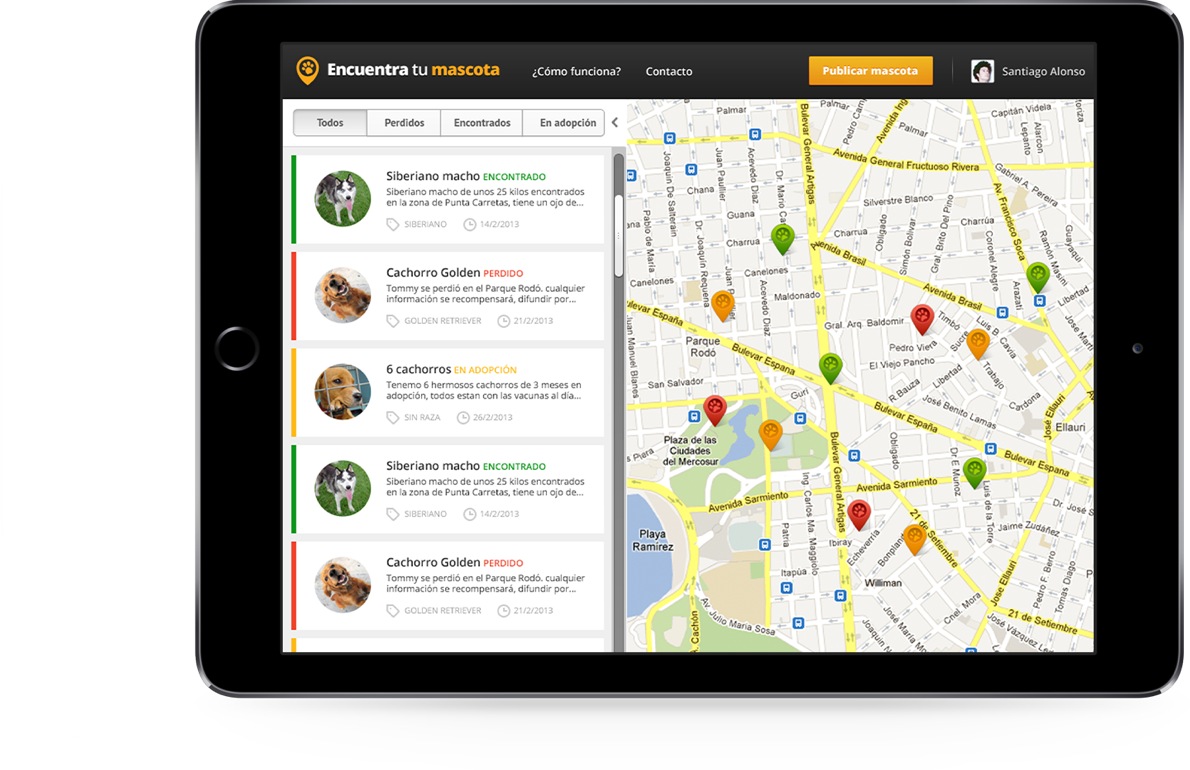
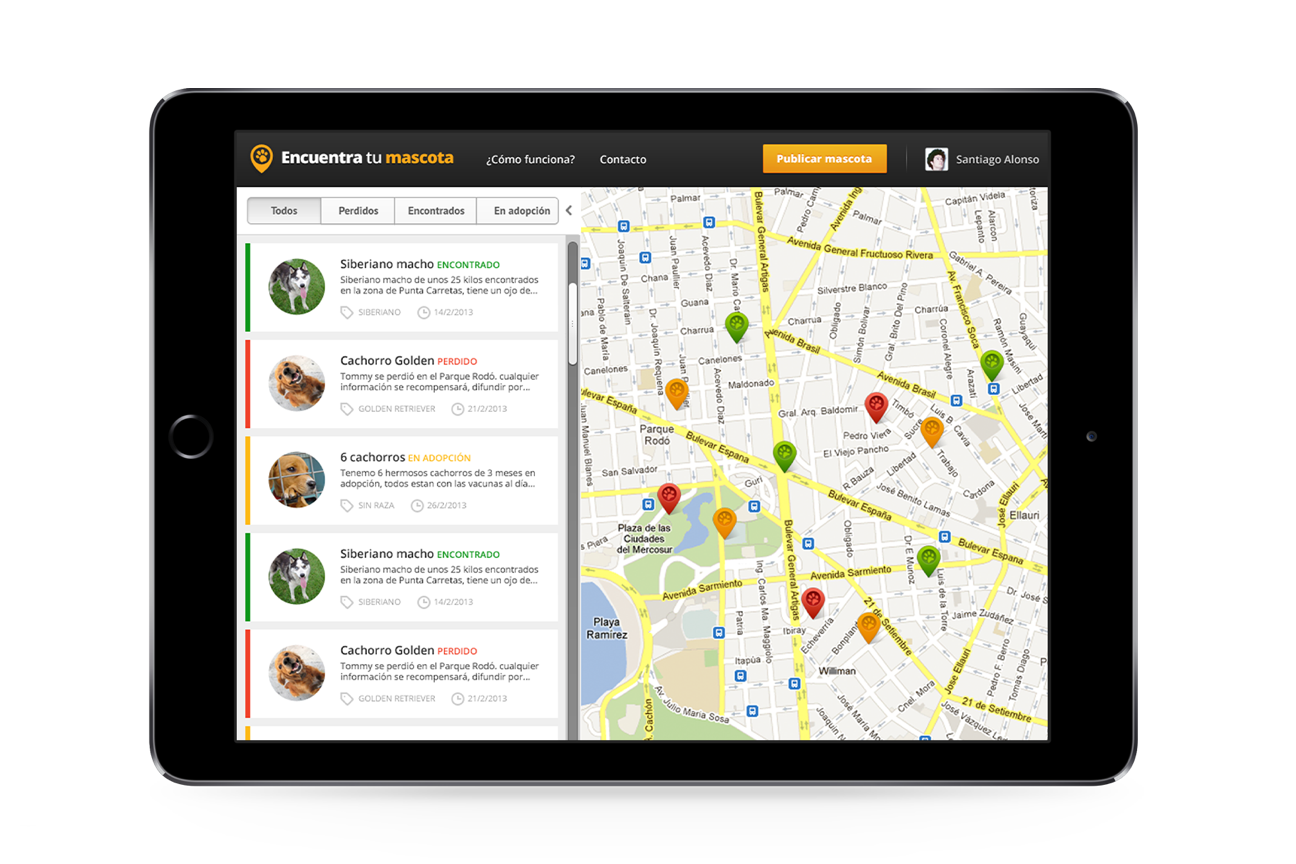
Update as per new white design

diff --git a/src/components/pages/Home.jsx b/src/components/pages/Home.jsx
@@ -45,7 +45,7 @@ class Home extends Component {
           community.
           <BannerNav>
             <Button to="http://news.fandf.io" external={true}>
-              Visit site
+              Go to site
             </Button>
           </BannerNav>
         </Banner>
@@ -58,21 +58,20 @@ class Home extends Component {
           find a home.
           <BannerNav>
             <Button to="http://petfinder.fandf.io" external={true}>
-              Visit site
+              Go to site
             </Button>
           </BannerNav>
         </Banner>
         <Header><HeaderTitle>The way we work</HeaderTitle></Header>
         <Paragraph>
-          Our team is proficient in an array of services that can help elevate
-          and empower your company or organization. We work with you to build
-          comprehensive, identities and experiences.
+          We believe in collaboration and we believe in partners. Our
+          transparent process and open communication are the basis for the way
+          we think about and build digital products.
         </Paragraph>
         <Header><HeaderTitle>What we do</HeaderTitle></Header>
         <Paragraph>
-          Branding, Information Architecture, Interface Design, User
-          Experience Design, Visual Design, Responsive Design, Development
-          Consulting, Front-end Development, iOS Development.
+          Branding, Information Architecture, Interface Design, User Experience
+          Design, Visual Design, Responsive Design, Web and Mobile Development.
         </Paragraph>
       </Root>
     );

diff --git a/src/components/base/Banner.less b/src/components/base/Banner.less
@@ -1,23 +1,78 @@
+@import "variables.less";
+@import "shared.less";
+
 .banner {
   background: rgb(255, 255, 255);
   box-shadow: 0 6px 25px 0 rgba(0, 0, 0, 0.1);
   font-size: 22px;
+  font-weight: 300;
+  height: 320px;
+  letter-spacing: 0.05em;
+  line-height: 1.55em;
   margin-bottom: 72px;
-  padding: 44px 50% 44px 44px;
+  padding: 44px 60% 44px 44px;
   position: relative;
 }
 
-.banner-img {
-  bottom: 0;
-  max-width: 48%;
+.banner-imgWrapper {
+  overflow: hidden;
   position: absolute;
-  right: 25px;
+  right: 0;
+  bottom: 0;
+
+  width: 560px;
+  height: 360px;
+}
+
+.banner-img {
+  bottom: -100px;
+  max-width: 648px;
+  position: absolute;
+  right: -43px;
+  transition: bottom 0.3s ease-in-out;
+}
+
+.banner-img:hover {
+  bottom: -40px;
 }
 
 .banner-title {
-  font-size: 32px;
+  font-size: 18px;
+  font-weight: bold;
+  text-transform: uppercase;
 }
 
 .banner-nav {
   margin-top: 33px;
 }
+
+.m-maxMedia(@media-breakpoint-4, {
+  .banner {
+    height: initial;
+    margin-bottom: 42px;
+    overflow: hidden;
+    padding: 44px 44px 364px; /* 320px + 44px */
+    text-align: center;
+  }
+  .banner-imgWrapper {
+    height: 320px;
+    overflow: visible;
+    width: 100%;
+  }
+  .banner-img,
+  .banner-img:hover {
+    bottom: initial;
+    display: block;
+    margin: 0 auto;
+    position: relative;
+    right: initial;
+  }
+});
+
+.m-maxMedia(@media-breakpoint-3, {
+  .banner-img,
+  .banner-img:hover {
+    position: absolute;
+    bottom: -60px;
+  }
+});

diff --git a/src/components/Root.jsx b/src/components/Root.jsx
@@ -39,7 +39,7 @@ class App extends Component {
           <MainHeader>
             <MainHeaderLogo
               to="/"
-              src="/images/logo-white.svg"
+              src="/images/logo-black.svg"
               alt="Form & Function logo" />
             <MainHeaderNav>
               <MainHeaderNavItem>
@@ -65,13 +65,29 @@ class App extends Component {
           <MainFooter>
             <MainFooterTitle>Want to work together?</MainFooterTitle>
             Send us an email to
-            {" "}<Link to={`mailto:${ENCODED_EMAIL}`} external={true}>
+            {" "}<Link
+              to={`mailto:${ENCODED_EMAIL}`}
+              external={true}
+              secondary={true}>
+
               {ENCODED_EMAIL}
             </Link>
             {" "}or reach us in
-            {" "}<Link to={TWITTER} external={true}>Twitter</Link>
+            {" "}<Link
+              to={TWITTER}
+              external={true}
+              secondary={true}>
+
+              Twitter
+            </Link>
             {" "}or
-            {" "}<Link to={INSTAGRAM} external={true}>Instagram</Link>.
+            {" "}<Link
+              to={INSTAGRAM}
+              external={true}
+              secondary={true}>
+
+              Instagram
+            </Link>.
             We'd love to chat.
           </MainFooter>
         </LayoutFooter>

diff --git a/src/components/base/Link.jsx b/src/components/base/Link.jsx
@@ -7,18 +7,21 @@ import { connectStyles } from "utils/styles.js";
 
 class Link extends Component {
   render() {
-    const { classes, external } = this.props;
+    const { classes, external, secondary } = this.props;
+    const className = classes.link({
+      secondary: secondary,
+    });
 
     if (external) {
       return (
-        <a className={classes.link()} href={this.props.to} target="_blank">
+        <a className={className} href={this.props.to} target="_blank">
           {this.props.children}
         </a>
       );
     }
     else {
       return (
-        <RouterLink className={classes.link()} to={this.props.to}>
+        <RouterLink className={className} to={this.props.to}>
           {this.props.children}
         </RouterLink>
       );
@@ -28,6 +31,7 @@ class Link extends Component {
 
 Link.propTypes = {
   external: React.PropTypes.bool,
+  secondary: React.PropTypes.bool,
 };
 
 Link = connectStyles(Link, styles);

diff --git a/src/components/base/MainHeader.less b/src/components/base/MainHeader.less
@@ -2,10 +2,8 @@
 @import "shared.less";
 
 .mainHeader {
-  background: rgb(31, 31, 31);
-  color: rgb(255, 255, 255);
   letter-spacing: 0.05em;
-  padding: 72px 0 300px;
+  padding: 72px 0;
   position: relative;
 }
 
@@ -15,13 +13,17 @@
 }
 
 .mainHeader-title {
-  font-size: 32px;
+  font-size: 18px;
+  font-weight: bold;
+  line-height: 1.9em;
   margin-top: 75px;
   text-transform: uppercase;
 }
 
 .mainHeader-title--secondary {
-  font-size: 24px;
+  font-size: 32px;
+  font-weight: 300;
+  line-height: 1.44em;
   margin-top: 14px;
   text-transform: none;
 }
@@ -44,6 +46,9 @@
 }
 
 .m-maxMedia(@media-breakpoint-3, {
+  .mainHeader {
+    padding-bottom: 0;
+  }
   .mainHeader-logo {
     display: block;
     margin: 0 auto 50px;

diff --git a/src/components/base/MainFooter.jsx b/src/components/base/MainFooter.jsx
@@ -5,7 +5,6 @@ import styles from "./MainFooter.less";
 import {
   Wrapper as LayoutWrapper
 } from "./Layout.jsx";
-import Splash from "./Splash.jsx";
 
 class MainFooter extends Component {
   render() {
@@ -13,9 +12,6 @@ class MainFooter extends Component {
 
     return (
       <footer className={classes.mainFooter()}>
-        <div className={classes.splash()}>
-          <Splash inverted={true} />
-        </div>
         <LayoutWrapper>
           <div className={classes.inner()}>{this.props.children}</div>
         </LayoutWrapper>

diff --git a/src/components/base/MainHeader.jsx b/src/components/base/MainHeader.jsx
@@ -5,7 +5,6 @@ import styles from "./MainHeader.less";
 import {
   Wrapper as LayoutWrapper
 } from "./Layout.jsx";
-import Splash from "./Splash.jsx";
 
 class MainHeader extends Component {
   render() {
@@ -16,9 +15,6 @@ class MainHeader extends Component {
         <LayoutWrapper>
           {this.props.children}
         </LayoutWrapper>
-        <div className={classes.splash()}>
-          <Splash />
-        </div>
       </header>
     );
   }

diff --git a/src/components/base/Button.less b/src/components/base/Button.less
@@ -6,12 +6,15 @@
   cursor: pointer;
   display: inline-block;
   font-size: 18px;
+  font-weight: bold;
+  line-height: 1.4em;
   min-width: 155px;
   outline: none;
-  padding: 20px;
+  padding: 15px;
   text-align: center;
   text-decoration: none;
   text-transform: uppercase;
+  transition: background-color 0.2s ease-in-out;
   vertical-align: middle;
   white-space: nowrap;
 

diff --git a/src/components/base/MainFooter.less b/src/components/base/MainFooter.less
@@ -1,9 +1,7 @@
 .mainFooter {
-  background: rgb(31, 31, 31);
-  color: rgb(255, 255, 255);
   font-size: 32px;
   font-weight: 300;
-  padding: 300px 0 200px;
+  padding: 0 0 200px;
   position: relative;
 }
 
@@ -14,7 +12,7 @@
 .mainFooter-title {
   font-size: 18px;
   font-weight: bold;
-  margin-bottom: 24px;
+  margin: 70px 0 20px;
   text-transform: uppercase;
 }
 

diff --git a/src/components/base/Banner.jsx b/src/components/base/Banner.jsx
@@ -8,7 +8,9 @@ class Banner extends Component {
 
     return (
       <section className={classes.banner()}>
-        <img className={classes.img()} src={imgSrc} alt={alt} />
+        <div className={classes.imgWrapper()}>
+          <img className={classes.img()} src={imgSrc} alt={alt} />
+        </div>
         {this.props.children}
       </section>
     );

diff --git a/src/components/base/Link.less b/src/components/base/Link.less
@@ -1,12 +1,14 @@
 .link {
-  border-bottom: 1px solid transparent;
-  color: rgb(255, 255, 255);
   cursor: pointer;
   font-weight: 300;
   letter-spacing: 0.05em;
   text-decoration: none;
 }
 
+.link--secondary {
+  text-decoration: underline;
+}
+
 .link:hover {
-  border-color: rgb(255, 255, 255);
+  text-decoration: line-through;
 }

diff --git a/src/components/base/Header.less b/src/components/base/Header.less
@@ -1,8 +1,9 @@
 .header {
-  margin: 50px 0 18px 0;
+  margin: 70px 0 20px;
 }
 
 .header-title {
   font-size: 18px;
+  font-weight: bold;
   text-transform: uppercase;
 }
